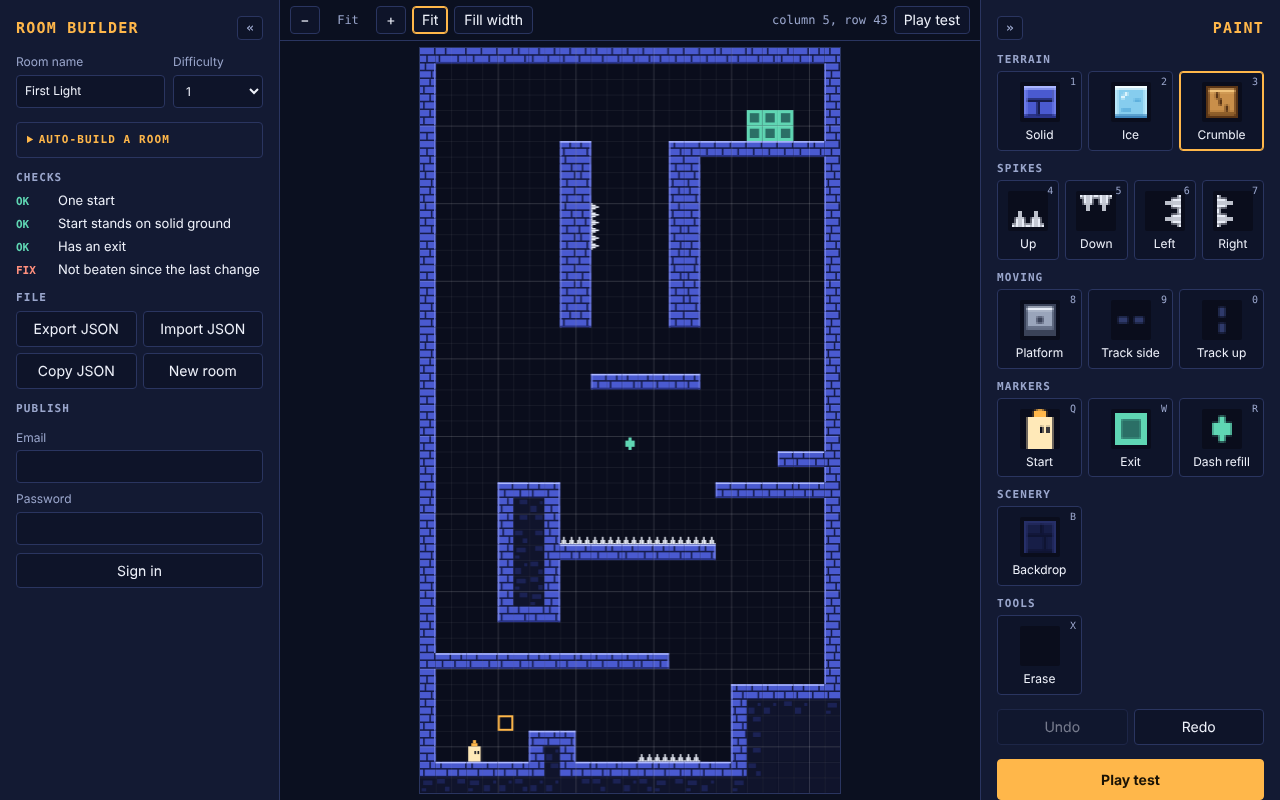
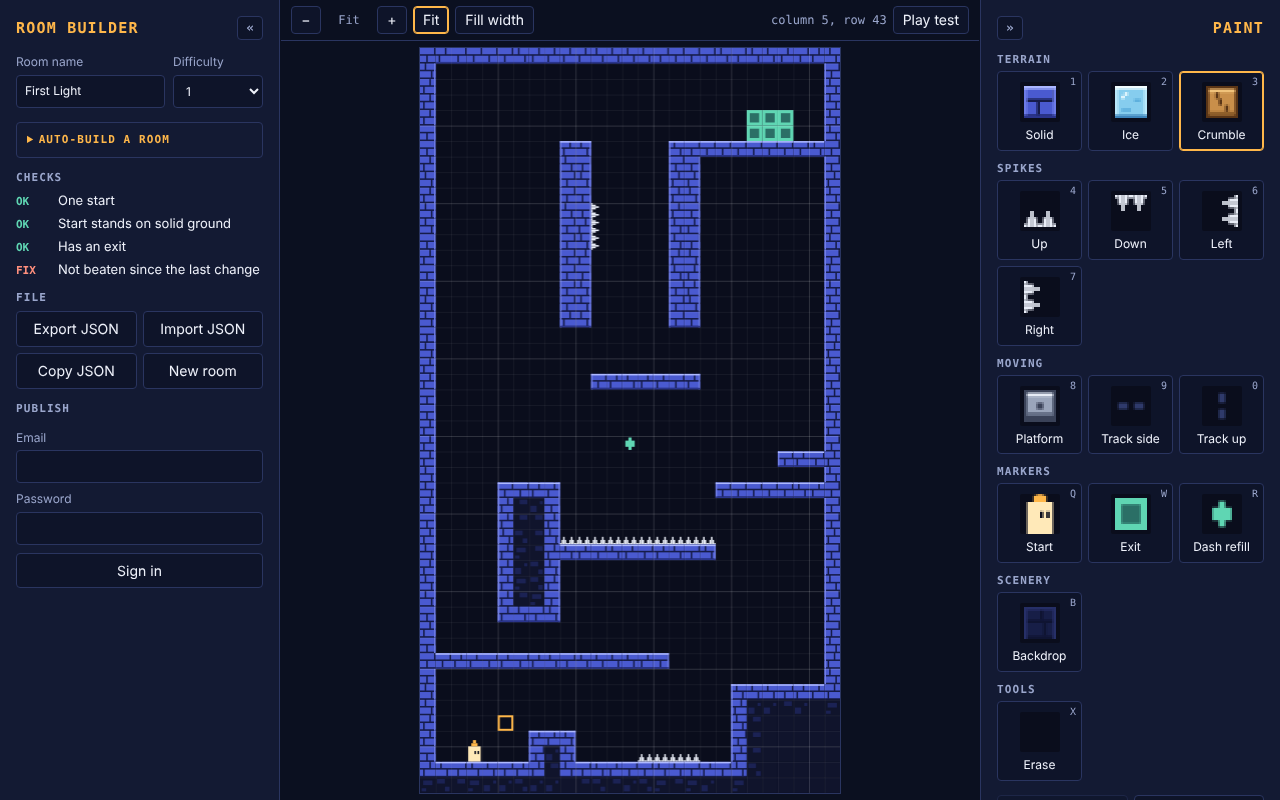
Builder: drag the panel edges to resize the rails
Claude-Session: https://claude.ai/code/session_01NZkKt2otoYDRNuWNpVBUzY

diff --git a/builder/index.html b/builder/index.html
@@ -25,7 +25,7 @@
   .two { display: grid; grid-template-columns: 1fr 90px; gap: 8px; }
   #paint { width: 300px; border-right: 0; border-left: 1px solid var(--line); }
   #palette { display: flex; flex-direction: column; gap: 12px; }
-  #palette .group { display: grid; grid-template-columns: repeat(3, 1fr); gap: 6px; }
+  #palette .group { display: grid; grid-template-columns: repeat(auto-fill, minmax(80px, 1fr)); gap: 6px; }
   #palette h2 { grid-column: 1 / -1; margin: 0; }
   #palette button { position: relative; display: flex; flex-direction: column; align-items: center; gap: 6px; padding: 10px 4px 8px; font-size: 12px; line-height: 1.15; text-align: center; }
   #palette canvas { width: 40px; height: 40px; flex: none; image-rendering: pixelated; border-radius: 2px; }
@@ -62,6 +62,9 @@
   #zlabel { font: 12px Menlo, Consolas, monospace; color: var(--dim); min-width: 44px; text-align: center; }
   #scroll { flex: 1; min-height: 0; overflow: auto; display: flex; padding: 6px; }
   #scroll > #board { margin: auto; flex: none; }
+  .grip { flex: none; width: 7px; margin: 0 -3px; z-index: 2; cursor: col-resize; touch-action: none; background: transparent; }
+  .grip:hover, .grip.drag { background: var(--accent); opacity: .55; }
+  @media (max-width: 1100px) { .grip { display: none; } }
   .rail-head { display: flex; align-items: center; justify-content: space-between; gap: 8px; }
   .rail-toggle { padding: 2px 8px; font: 700 13px/1.4 Menlo, Consolas, monospace; color: var(--dim); }
   aside.collapsed { width: 38px !important; padding: 10px 4px; overflow: hidden; align-items: center; }
@@ -150,6 +153,7 @@
     </div>
     <p id="status" role="status"></p>
   </aside>
+  <div class="grip" data-rail="rail" title="Drag to resize. Double-click to reset."></div>
   <main>
     <div id="bar">
       <button id="z-out" title="Zoom out ( - )" aria-label="Zoom out">&minus;</button>
@@ -162,6 +166,7 @@
     </div>
     <div id="scroll"><div id="board"><canvas id="grid"></canvas><iframe id="game" title="Play test" hidden></iframe></div></div>
   </main>
+  <div class="grip" data-rail="paint" title="Drag to resize. Double-click to reset."></div>
   <aside id="paint">
     <div class="rail-head"><button class="rail-toggle" data-rail="paint" title="Hide or show this panel ( ] )" aria-label="Hide or show the paint panel">&raquo;</button><h1>Paint</h1></div>
     <div id="palette"></div>
@@ -713,7 +718,6 @@
   function buildPalette() {
     GROUPS.forEach(function (grp) {
       var box = document.createElement('div'); box.className = 'group';
-      if (grp[1].length === 4) box.style.gridTemplateColumns = 'repeat(4, 1fr)';
       var h = document.createElement('h2'); h.textContent = grp[0]; box.appendChild(h);
       grp[1].forEach(function (t) {
         var b = document.createElement('button'); b.type = 'button'; b.dataset.ch = t[0]; b.title = t[1] + ' (' + t[2] + ')';
@@ -833,7 +837,7 @@
 
   // ---- view: zoom and collapsible side panels (remembered on this computer) ----
   var VIEW_KEY = 'climber.builder.view.v1';
-  function saveView() { try { localStorage.setItem(VIEW_KEY, JSON.stringify({ mode: zoomMode, zoom: userZoom, rail: $('rail').classList.contains('collapsed'), paint: $('paint').classList.contains('collapsed') })); } catch (e) {} }
+  function saveView() { try { localStorage.setItem(VIEW_KEY, JSON.stringify({ mode: zoomMode, zoom: userZoom, rail: $('rail').classList.contains('collapsed'), paint: $('paint').classList.contains('collapsed'), w: railW })); } catch (e) {} }
   function setZoom(mode, z) {
     zoomMode = mode;
     if (mode === 'user') userZoom = Math.max(0.5, Math.min(6, Math.round(z * 4) / 4));
@@ -864,9 +868,23 @@
     else if (e.key === '[') { setRail('rail', !$('rail').classList.contains('collapsed')); saveView(); }
     else if (e.key === ']') { setRail('paint', !$('paint').classList.contains('collapsed')); saveView(); }
   });
+  // drag the edge of a panel to make it wider or narrower
+  var railW = { rail: 280, paint: 300 }, RAIL_DEF = { rail: 280, paint: 300 };
+  function setRailW(id, w) { railW[id] = Math.max(200, Math.min(Math.round(w), Math.min(640, window.innerWidth - 420))); $(id).style.width = railW[id] + 'px'; fit(); }
+  Array.prototype.forEach.call(document.querySelectorAll('.grip'), function (gr) {
+    var id = gr.dataset.rail, start = null;
+    gr.addEventListener('pointerdown', function (e) {
+      if ($(id).classList.contains('collapsed')) return;
+      start = { x: e.clientX, w: $(id).getBoundingClientRect().width }; gr.setPointerCapture(e.pointerId); gr.classList.add('drag'); e.preventDefault();
+    });
+    gr.addEventListener('pointermove', function (e) { if (start) setRailW(id, start.w + (id === 'rail' ? 1 : -1) * (e.clientX - start.x)); });
+    function end() { if (start) { start = null; gr.classList.remove('drag'); saveView(); } }
+    gr.addEventListener('pointerup', end); gr.addEventListener('pointercancel', end);
+    gr.addEventListener('dblclick', function () { setRailW(id, RAIL_DEF[id]); saveView(); });
+  });
   function restoreView() { try {
     var view = JSON.parse(localStorage.getItem(VIEW_KEY));
-    if (view) { zoomMode = view.mode || 'fit'; userZoom = view.zoom || 1; if (view.rail) setRail('rail', true); if (view.paint) setRail('paint', true); }
+    if (view) { zoomMode = view.mode || 'fit'; userZoom = view.zoom || 1; if (view.w) { setRailW('rail', view.w.rail || 280); setRailW('paint', view.w.paint || 300); } if (view.rail) setRail('rail', true); if (view.paint) setRail('paint', true); }
   } catch (e) {} }
 
   // ---- publishing: drafts stay private, Publish makes a room live, and any saved version can be made live again ----

diff --git a/src/builder-template.html b/src/builder-template.html
@@ -25,7 +25,7 @@
   .two { display: grid; grid-template-columns: 1fr 90px; gap: 8px; }
   #paint { width: 300px; border-right: 0; border-left: 1px solid var(--line); }
   #palette { display: flex; flex-direction: column; gap: 12px; }
-  #palette .group { display: grid; grid-template-columns: repeat(3, 1fr); gap: 6px; }
+  #palette .group { display: grid; grid-template-columns: repeat(auto-fill, minmax(80px, 1fr)); gap: 6px; }
   #palette h2 { grid-column: 1 / -1; margin: 0; }
   #palette button { position: relative; display: flex; flex-direction: column; align-items: center; gap: 6px; padding: 10px 4px 8px; font-size: 12px; line-height: 1.15; text-align: center; }
   #palette canvas { width: 40px; height: 40px; flex: none; image-rendering: pixelated; border-radius: 2px; }
@@ -62,6 +62,9 @@
   #zlabel { font: 12px Menlo, Consolas, monospace; color: var(--dim); min-width: 44px; text-align: center; }
   #scroll { flex: 1; min-height: 0; overflow: auto; display: flex; padding: 6px; }
   #scroll > #board { margin: auto; flex: none; }
+  .grip { flex: none; width: 7px; margin: 0 -3px; z-index: 2; cursor: col-resize; touch-action: none; background: transparent; }
+  .grip:hover, .grip.drag { background: var(--accent); opacity: .55; }
+  @media (max-width: 1100px) { .grip { display: none; } }
   .rail-head { display: flex; align-items: center; justify-content: space-between; gap: 8px; }
   .rail-toggle { padding: 2px 8px; font: 700 13px/1.4 Menlo, Consolas, monospace; color: var(--dim); }
   aside.collapsed { width: 38px !important; padding: 10px 4px; overflow: hidden; align-items: center; }
@@ -150,6 +153,7 @@
     </div>
     <p id="status" role="status"></p>
   </aside>
+  <div class="grip" data-rail="rail" title="Drag to resize. Double-click to reset."></div>
   <main>
     <div id="bar">
       <button id="z-out" title="Zoom out ( - )" aria-label="Zoom out">&minus;</button>
@@ -162,6 +166,7 @@
     </div>
     <div id="scroll"><div id="board"><canvas id="grid"></canvas><iframe id="game" title="Play test" hidden></iframe></div></div>
   </main>
+  <div class="grip" data-rail="paint" title="Drag to resize. Double-click to reset."></div>
   <aside id="paint">
     <div class="rail-head"><button class="rail-toggle" data-rail="paint" title="Hide or show this panel ( ] )" aria-label="Hide or show the paint panel">&raquo;</button><h1>Paint</h1></div>
     <div id="palette"></div>
@@ -386,7 +391,6 @@
   function buildPalette() {
     GROUPS.forEach(function (grp) {
       var box = document.createElement('div'); box.className = 'group';
-      if (grp[1].length === 4) box.style.gridTemplateColumns = 'repeat(4, 1fr)';
       var h = document.createElement('h2'); h.textContent = grp[0]; box.appendChild(h);
       grp[1].forEach(function (t) {
         var b = document.createElement('button'); b.type = 'button'; b.dataset.ch = t[0]; b.title = t[1] + ' (' + t[2] + ')';
@@ -506,7 +510,7 @@
 
   // ---- view: zoom and collapsible side panels (remembered on this computer) ----
   var VIEW_KEY = 'climber.builder.view.v1';
-  function saveView() { try { localStorage.setItem(VIEW_KEY, JSON.stringify({ mode: zoomMode, zoom: userZoom, rail: $('rail').classList.contains('collapsed'), paint: $('paint').classList.contains('collapsed') })); } catch (e) {} }
+  function saveView() { try { localStorage.setItem(VIEW_KEY, JSON.stringify({ mode: zoomMode, zoom: userZoom, rail: $('rail').classList.contains('collapsed'), paint: $('paint').classList.contains('collapsed'), w: railW })); } catch (e) {} }
   function setZoom(mode, z) {
     zoomMode = mode;
     if (mode === 'user') userZoom = Math.max(0.5, Math.min(6, Math.round(z * 4) / 4));
@@ -537,9 +541,23 @@
     else if (e.key === '[') { setRail('rail', !$('rail').classList.contains('collapsed')); saveView(); }
     else if (e.key === ']') { setRail('paint', !$('paint').classList.contains('collapsed')); saveView(); }
   });
+  // drag the edge of a panel to make it wider or narrower
+  var railW = { rail: 280, paint: 300 }, RAIL_DEF = { rail: 280, paint: 300 };
+  function setRailW(id, w) { railW[id] = Math.max(200, Math.min(Math.round(w), Math.min(640, window.innerWidth - 420))); $(id).style.width = railW[id] + 'px'; fit(); }
+  Array.prototype.forEach.call(document.querySelectorAll('.grip'), function (gr) {
+    var id = gr.dataset.rail, start = null;
+    gr.addEventListener('pointerdown', function (e) {
+      if ($(id).classList.contains('collapsed')) return;
+      start = { x: e.clientX, w: $(id).getBoundingClientRect().width }; gr.setPointerCapture(e.pointerId); gr.classList.add('drag'); e.preventDefault();
+    });
+    gr.addEventListener('pointermove', function (e) { if (start) setRailW(id, start.w + (id === 'rail' ? 1 : -1) * (e.clientX - start.x)); });
+    function end() { if (start) { start = null; gr.classList.remove('drag'); saveView(); } }
+    gr.addEventListener('pointerup', end); gr.addEventListener('pointercancel', end);
+    gr.addEventListener('dblclick', function () { setRailW(id, RAIL_DEF[id]); saveView(); });
+  });
   function restoreView() { try {
     var view = JSON.parse(localStorage.getItem(VIEW_KEY));
-    if (view) { zoomMode = view.mode || 'fit'; userZoom = view.zoom || 1; if (view.rail) setRail('rail', true); if (view.paint) setRail('paint', true); }
+    if (view) { zoomMode = view.mode || 'fit'; userZoom = view.zoom || 1; if (view.w) { setRailW('rail', view.w.rail || 280); setRailW('paint', view.w.paint || 300); } if (view.rail) setRail('rail', true); if (view.paint) setRail('paint', true); }
   } catch (e) {} }
 
   // ---- publishing: drafts stay private, Publish makes a room live, and any saved version can be made live again ----
